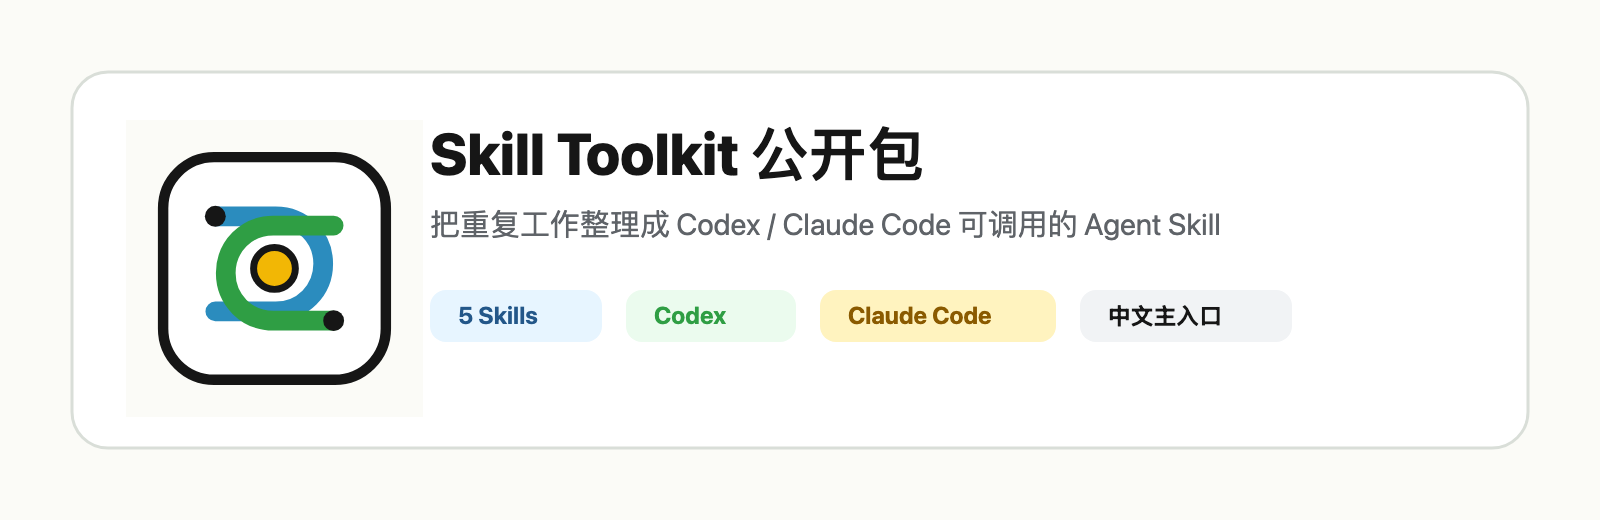
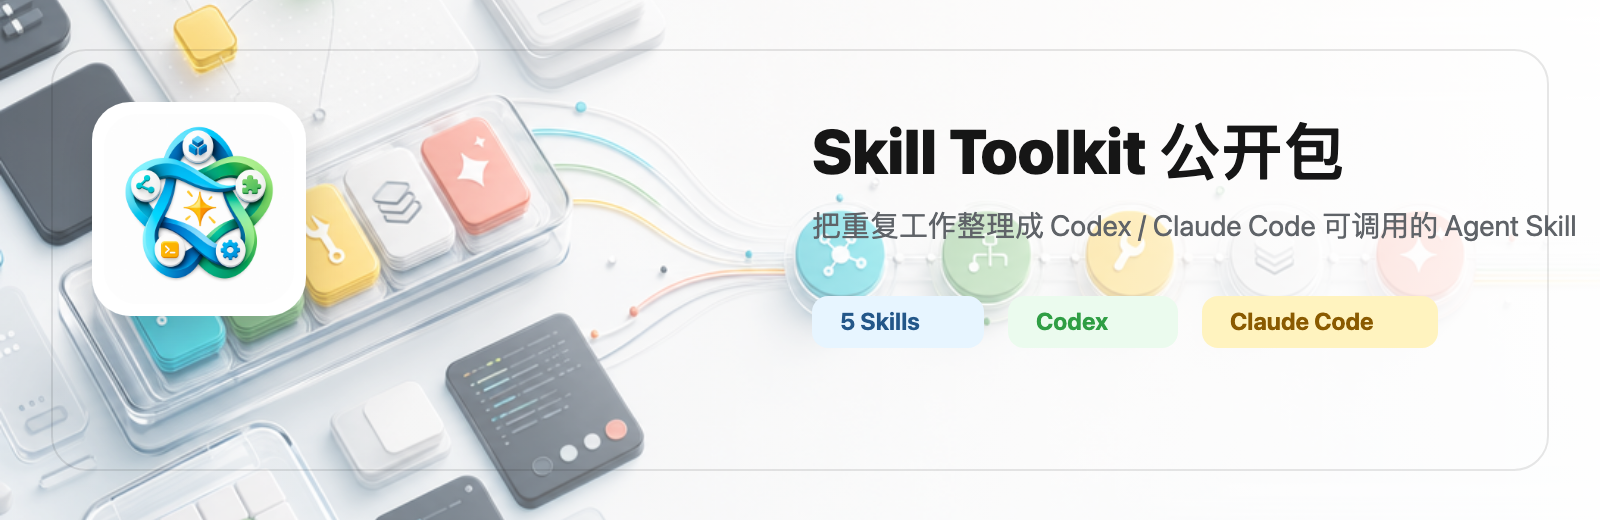
Improve README brand assets with AI sources

diff --git a/assets/README.md b/assets/README.md
@@ -9,31 +9,44 @@
 | `brand/logo.png` / `.svg` | 仓库 logo。 |
 | `brand/banner.png` / `.svg` | README 首屏 banner。 |
 | `brand/social-preview.png` / `.svg` | GitHub social preview 候选图。 |
+| `brand/logo-ai-source.png` | GPT Image 2 生成的 logo 源图。 |
+| `brand/banner-ai-source.png` | GPT Image 2 生成的 banner 源图。 |
 | `workflow/skill-lifecycle-workflow.png` / `.svg` | README 中的 Skill 生命周期图。 |
 | `workflow/skill-lifecycle-workflow.mmd` | Workflow 图的 Mermaid 源。 |
 | `demo/customer-message-digest-demo.png` / `.svg` | README 中的最小 demo 图。 |
 
 ## 生成方式
 
-当前图片由本仓脚本生成：
+Brand 资产采用两段式：
+
+1. 用 GPT Image 2 生成 `brand/logo-ai-source.png` 和 `brand/banner-ai-source.png`。
+2. 用本仓脚本裁切、叠加清晰文字，并输出 README 使用的 PNG。
 
 ```bash
 node scripts/generate-readme-assets.mjs
 ```
 
-脚本会生成 SVG 源文件，并用本机 Chrome headless 渲染 PNG。
+脚本会生成 SVG 源文件，并用本机 Chrome headless 渲染 PNG。Workflow 图和 demo 图仍由脚本生成，保证文字清晰、可复现。
 
 ## image-cli 记录
 
-本轮先检查并尝试使用了 `image-cli`。CLI 可用，但当前 `fal` provider 配置缺少 `baseUrl`，真实生成未发出外部调用。为了不阻塞 README 视觉改造，本轮使用本地可复现的 SVG/PNG 生成方式。
+本轮先检查并尝试使用了 `image-cli`。CLI 可用，`fal` provider 也能看到 `FAL_KEY`，但当前 adapter 的真实生成路径还有两个问题：
+
+- 默认 `fal` provider 缺少 `baseUrl`，会在外部调用前失败。
+- 用临时 endpoint 配置后，真实调用返回 401；判断是当前 CLI 固定认证头与 fal 官方接口不匹配。
+
+所以本轮生成源图时使用 fal 官方 SDK 调用 `openai/gpt-image-2`。落盘后的图片继续用 `image-cli verify` 做本地格式和尺寸验证。
 
 ```text
-image-cli doctor --agent --json     # pass
-image-cli generate ... --provider fal ...  # failed before external call: missing baseUrl
+image-cli doctor --agent --json       # pass
+image-cli providers --agent --json    # fal configured
+image-cli generate ... --provider fal # blocked by provider adapter config/auth
+image-cli verify assets/brand/*.png   # pass
 ```
 
 ## 边界
 
 - 本目录不包含视频资产。
 - 本目录不包含真实客户材料、凭据或未公开视频素材。
-- 如果后续修好 image-cli provider，可以替换 `brand/` 里的视觉风格图，但 workflow/demo 图建议继续保持可复现。
+- 后续修好 image-cli 的 fal adapter 后，可以把源图生成也收回到 `image-cli generate`。
+- Workflow/demo 图建议继续保持脚本生成，避免图片模型生成不可读文字。

diff --git a/docs/VISUAL_ASSET_PLAN.en.md b/docs/VISUAL_ASSET_PLAN.en.md
@@ -8,9 +8,11 @@ This plan now covers image assets only. Video assets and GIFs are out of scope f
 
 | Asset | Path | Purpose | Source | Status |
 |---|---|---|---|---|
-| Logo | `assets/brand/logo.png` / `.svg` | Repository identity | Local script | `done` |
-| Banner | `assets/brand/banner.png` / `.svg` | README first screen | Local script | `done` |
-| Social preview | `assets/brand/social-preview.png` / `.svg` | Candidate GitHub social image | Local script | `done` |
+| Logo | `assets/brand/logo.png` / `.svg` | Repository identity | GPT Image 2 source + local layout script | `done` |
+| Banner | `assets/brand/banner.png` / `.svg` | README first screen | GPT Image 2 source + local layout script | `done` |
+| Social preview | `assets/brand/social-preview.png` / `.svg` | Candidate GitHub social image | GPT Image 2 source + local layout script | `done` |
+| Logo source | `assets/brand/logo-ai-source.png` | Reusable source for later crops or layouts | fal `openai/gpt-image-2` | `done` |
+| Banner source | `assets/brand/banner-ai-source.png` | Reusable source for later crops or layouts | fal `openai/gpt-image-2` | `done` |
 | Workflow diagram | `assets/workflow/skill-lifecycle-workflow.png` / `.svg` | Explain the five lifecycle Skills in README | Local script | `done` |
 | Mermaid source | `assets/workflow/skill-lifecycle-workflow.mmd` | Editable workflow source | Local script | `done` |
 | Demo image | `assets/demo/customer-message-digest-demo.png` / `.svg` | Show public standalone mode | Local script | `done` |
@@ -25,3 +27,9 @@ The demo uses `examples/customer-message-digest`:
 4. Show the generated `SKILL.md` highlights.
 
 No real customer messages are used.
+
+## Notes
+
+- Brand visuals now use AI-generated source images instead of pure SVG placeholder art.
+- The local script keeps all readable text, badges, crops, workflow, and demo layouts deterministic.
+- Workflow and demo images should remain script-rendered so the text stays readable.

diff --git a/docs/PUBLIC_REPO_STANDARD.en.md b/docs/PUBLIC_REPO_STANDARD.en.md
@@ -51,6 +51,8 @@ Public repositories should include the images needed by the README:
 - demo image;
 - maintainable sources such as SVG and Mermaid.
 
+Use an image model for brand source images such as the logo, banner, and social preview. Keep readable repository text, badges, workflow labels, commands, and demo copy in local scripted layout so they stay legible and reproducible.
+
 Video assets and GIFs are out of scope for this pass. Keep an `assets/README.md` that explains source, generation, and boundary.
 
 ## Discoverability

diff --git a/docs/PUBLIC_REPO_STANDARD.zh-CN.md b/docs/PUBLIC_REPO_STANDARD.zh-CN.md
@@ -57,6 +57,8 @@ README 首屏需要直接给出：
 - demo 图；
 - 可维护源文件，例如 SVG 和 Mermaid。
 
+品牌视觉（logo、banner、social preview）优先用图片模型生成源图，再由本地脚本做裁切、文字和 badge 排版。仓库里的中文标题、安装命令、workflow 和 demo 文案不要交给图片模型生成，避免乱码和不可复现。
+
 本期不放视频资产，也不做 GIF。图片资产要有 `assets/README.md` 说明来源、生成方式和边界。
 
 ## Discoverability 标准